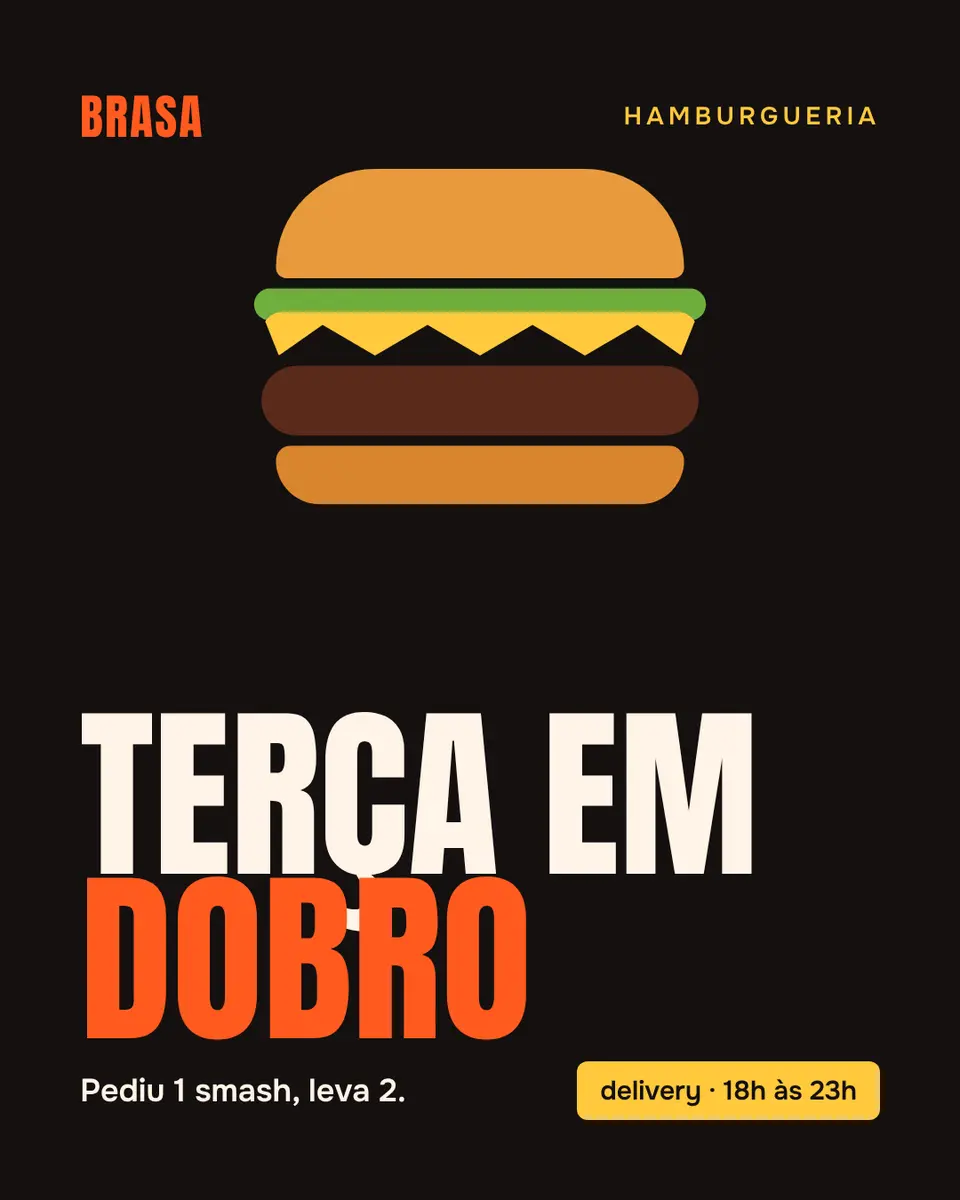
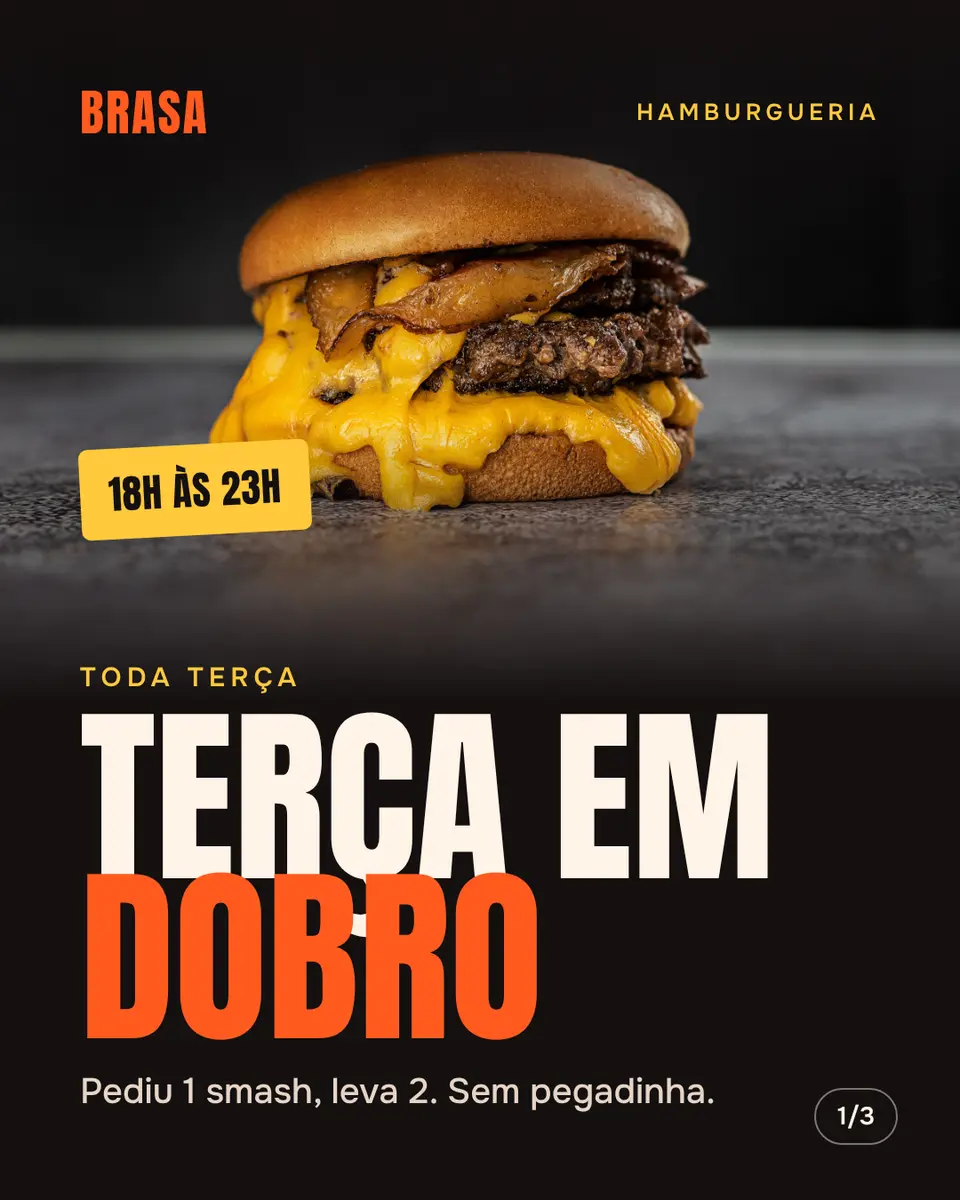
Add files via upload

diff --git a/index.html b/index.html
@@ -491,23 +491,23 @@ input:focus,select:focus,textarea:focus{outline:none;border-color:var(--purple)}
       <div class="autorais">
         <button class="trabalho" type="button" data-obra="cafe" aria-label="Abrir projeto autoral: Café Mandacaru">
           <span class="capa"><img src="cafe.webp" alt="Capa de carrossel da marca fictícia Café Mandacaru" loading="lazy" width="960" height="1200"></span>
-          <span class="legenda"><b>Café Mandacaru</b><span>Carrossel</span></span>
+          <span class="legenda"><b>Café Mandacaru</b><span>Carrossel · 6</span></span>
         </button>
         <button class="trabalho" type="button" data-obra="lirio" aria-label="Abrir projeto autoral: Studio Lírio">
           <span class="capa"><img src="lirio.webp" alt="Post promocional da marca fictícia Studio Lírio" loading="lazy" width="960" height="1200"></span>
           <span class="legenda"><b>Studio Lírio</b><span>Promoção</span></span>
         </button>
         <button class="trabalho" type="button" data-obra="brasa" aria-label="Abrir projeto autoral: Brasa Hamburgueria">
-          <span class="capa"><img src="brasa.webp" alt="Anúncio da marca fictícia Brasa Hamburgueria" loading="lazy" width="960" height="1200"></span>
-          <span class="legenda"><b>Brasa</b><span>Anúncio</span></span>
+          <span class="capa"><img src="brasa.webp" alt="Campanha da marca fictícia Brasa Hamburgueria" loading="lazy" width="960" height="1200"></span>
+          <span class="legenda"><b>Brasa</b><span>Campanha · 3</span></span>
         </button>
         <button class="trabalho" type="button" data-obra="fit" aria-label="Abrir projeto autoral: Fit Agreste">
           <span class="capa"><img src="fit.webp" alt="Capa de Reels da marca fictícia Fit Agreste" loading="lazy" width="960" height="1200"></span>
-          <span class="legenda"><b>Fit Agreste</b><span>Capa de Reels</span></span>
+          <span class="legenda"><b>Fit Agreste</b><span>Reels + carrossel · 4</span></span>
         </button>
         <button class="trabalho" type="button" data-obra="doce" aria-label="Abrir projeto autoral: Doce Sertão">
           <span class="capa"><img src="doce.webp" alt="Anúncio de encomendas da marca fictícia Doce Sertão" loading="lazy" width="960" height="1200"></span>
-          <span class="legenda"><b>Doce Sertão</b><span>Campanha</span></span>
+          <span class="legenda"><b>Doce Sertão</b><span>Campanha · 3</span></span>
         </button>
       </div>
     </div>
@@ -745,11 +745,11 @@ var WHATSAPP = "5583987682113";
     sinais:{titulo:"Carrossel · ZinTech", slides:["sinais-0","sinais-1","sinais-2","sinais-3","sinais-4"]},
     professor:{titulo:"Data comemorativa · ZinTech", slides:["professor"]},
     barro:{titulo:"Identidade visual · Projeto conceitual", slides:["barro"]},
-    cafe:{titulo:"Café Mandacaru · marca fictícia", slides:["cafe"]},
+    cafe:{titulo:"Café Mandacaru · marca fictícia", slides:["cafe","cafe-2","cafe-3","cafe-4","cafe-5","cafe-6"]},
     lirio:{titulo:"Studio Lírio · marca fictícia", slides:["lirio"]},
-    brasa:{titulo:"Brasa · marca fictícia", slides:["brasa"]},
-    fit:{titulo:"Fit Agreste · marca fictícia", slides:["fit"]},
-    doce:{titulo:"Doce Sertão · marca fictícia", slides:["doce"]},
+    brasa:{titulo:"Brasa · marca fictícia", slides:["brasa","brasa-2","brasa-3"]},
+    fit:{titulo:"Fit Agreste · marca fictícia", slides:["fit","fit-2","fit-3","fit-4"]},
+    doce:{titulo:"Doce Sertão · marca fictícia", slides:["doce","doce-2","doce-3"]},
     painel:{titulo:"Reels · ZinTech", video:"painel.mp4"}
   };
   var visor = $("visor"), atual = null, idx = 0;
